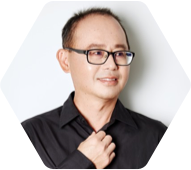
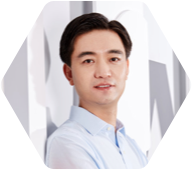
updated people info; optimized code

diff --git a/src/js/home.js b/src/js/home.js
@@ -17,8 +17,8 @@ $(function(){
     init();
 
     function init() {
-        registerEventListeners();
         renderInitialDOM();
+        registerEventListeners();
         // newsCarousel();
     }
 
@@ -36,7 +36,14 @@ $(function(){
             renderMedia('#specialMedia', 13);
             renderMedia('#partnerMedia', 25);*/
         }
-        $('#video2frame').append('<video controls width="90%" class="video2" id="video2"><source src="http://z.dtcj.com/cbndata/fiesta/2016/assets/video2.mp4" type="video/mp4">您的浏览器不支持mp4视频播放 </video>')
+        $('#video2frame').append('<video preload="automatic" controls width="90%" class="video2" id="video2"><source src="http://z.dtcj.com/cbndata/fiesta/2016/assets/video2.mp4" type="video/mp4">您的浏览器不支持mp4视频播放 </video>')
+        // alert($('#video2').attr('preload'));
+        /*$('#video2').load = function() {
+            $('#video2')[0].play();
+            setTimeout( function() {
+                $('#video2')[0].pause();
+            },1000)
+        }*/
 
         /*function renderMedia(dom, number) {
             var html = '';
@@ -56,21 +63,14 @@ $(function(){
             $('html,body').animate({scrollTop: $($(this).attr('href')).offset().top}, 500);
         });
 
-
-        var bgImg = $('#bgImage')[0];
+        // var bgImg = $('#bgImage')[0];
         var $floatObj = $('.float-obj');
         var scrollTriggered = false;
         var currentY = window.scrollY;
         var nextY = currentY;
-        var $footer = $('#footer');
 
-        var baseScrollY = $('#page2').offset().top;
         var $btnTop = $('#btnTop');
-        // var layer3dWrapper = $('#layer3dWrapper')[0];
-        var layer3dWrapper = $('#bgPlanetWrapper')[0];
 
-        var bodyHeight = $('body').height();
-        var maxScrollY = bodyHeight - HEIGHT;
         $(window).on('scroll', function () {
             if (scrollTriggered) return;
             scrollTriggered = true;
@@ -82,7 +82,7 @@ $(function(){
                 if (!ISMOBILE) {
                     // parallax scroll for background planet image
                     if (currentY > HEIGHT) {  // from 2nd page
-                        bgImg.style.backgroundPosition = 'left 0 top ' + (currentY-HEIGHT)/3 + 'px';
+                        // bgImg.style.backgroundPosition = 'left 0 top ' + (currentY-HEIGHT)/3 + 'px';
                         $floatObj[0].style.top = 400 - (currentY-HEIGHT)/3 + 'px';
                         $floatObj[1].style.top = 600 - (currentY-HEIGHT)/2 + 'px';
                     }
@@ -99,7 +99,7 @@ $(function(){
         });
     }
 
-    function newsCarousel() {
+    /*function newsCarousel() {
         var _counter = 0;
         var $newsContainer = $('.news-container');
         setInterval(function() {
@@ -108,7 +108,7 @@ $(function(){
             $('.news-item.hidden:eq(0)').removeClass('hidden');
             _counter++;
         }, 2.5 * 1000)
-    }
+    }*/
 
 });
 

diff --git a/src/index.html b/src/index.html
@@ -13,9 +13,7 @@
 <div style=" overflow:hidden; width:0px; height:0; margin:0 auto; position:absolute; top:-800px;"><img src="images/share-logo.jpg"></div>
 <div style="overflow:hidden; width:0px; height:0; margin:0 auto; position:absolute; top:-800px;">集结互联网消费领域领袖精英，探究数据商业新价值、行业新契机。星际之旅一触即发！</div>
 
-<a href="#page1" class="scroll btn-to-top PC-only hidden" id="btnTop">
-
-</a>
+<a href="#page1" class="scroll btn-to-top PC-only" id="btnTop"></a>
 
 <div class="pages" id="page1">
     <nav class="nav-bar">
@@ -193,8 +191,8 @@
                     </div>
                     <div class="hex-unit">
                         <div class="image-wrapper" style="background-image:url(./images/leaders/person14.png)">
-                            <div class="leader-name description">王文彬</div>
-                            <div class="leader-info description">菜鸟网络CTO</div>
+                            <div class="leader-name description">丁宏伟</div>
+                            <div class="leader-info description">菜鸟网络<br>首席数据科学家</div>
                         </div>
                     </div>
                     <div class="hex-unit">
@@ -225,7 +223,7 @@
                     <div class="hex-unit">
                         <div class="image-wrapper" style="background-image:url(./images/leaders/person23.png)">
                             <div class="leader-name description">张柏军</div>
-                            <div class="leader-info description">上海开放数据创新应用大赛<br>(SODA)<br>理事长</div>
+                            <div class="leader-info description">上海开放数据创新应用大赛<br>(SODA)<br>总策划人</div>
                         </div>
                     </div>
                 </div>
@@ -282,7 +280,7 @@
 
             </div>
             <div class="leaders-wrapper-mobile mobile-only" id="leadersWrapperMobile">
-                <img src="images/mobile/leaders.png">
+                <img src="images/mobile/leaders%3Fv1123.png">
             </div>
         </div>
     </div>

diff --git a/src/css/main.css b/src/css/main.css
@@ -1608,7 +1608,7 @@ img, .image {
   background-repeat: no-repeat;
   background-position: center center;
   position: absolute;
-  top: -50px;
+  top: 400px;
   left: -280px;
 }
 
@@ -1623,13 +1623,13 @@ img, .image {
   background-repeat: no-repeat;
   background-position: center center;
   position: absolute;
-  top: -550px;
+  top: 100px;
   right: -180px;
 }
 
 .btn-to-top {
   position: fixed !important;
-  display: inline-block;
+  display: none;
   right: 3rem;
   bottom: 14%;
   width: 50px;
@@ -1639,7 +1639,7 @@ img, .image {
           background-size: 100% 100%;
   background-repeat: no-repeat;
   background-position: center center;
-  z-index: 20;
+  z-index: 200;
   -webkit-transition-duration: 0.8s;
        -o-transition-duration: 0.8s;
           transition-duration: 0.8s;
@@ -1650,11 +1650,6 @@ img, .image {
 }
 
 .video2-frame {
-  background-image: url("../images/video-frame.png");
-  -webkit-background-size: 100% 100%;
-          background-size: 100% 100%;
-  background-repeat: no-repeat;
-  background-position: center center;
   position: relative;
   display: -webkit-box;
   display: -webkit-flex;
@@ -1680,6 +1675,26 @@ img, .image {
 
 @media (min-width: 720px) {
   .video2-frame {
+    background-image: url("../images/video-frame.png");
+    -webkit-background-size: 100% 100%;
+            background-size: 100% 100%;
+    background-repeat: no-repeat;
+    background-position: center center;
+  }
+}
+
+@media (max-width: 720px) {
+  .video2-frame {
+    background-image: url("../images/video-placeholder.png");
+    -webkit-background-size: 100% 100%;
+            background-size: 100% 100%;
+    background-repeat: no-repeat;
+    background-position: center center;
+  }
+}
+
+@media (min-width: 720px) {
+  .video2-frame {
     width: 100%;
     height: 516px;
   }
@@ -1688,7 +1703,7 @@ img, .image {
 @media (max-width: 720px) {
   .video2-frame {
     width: 100vw;
-    height: 64vw;
+    height: 62vw;
   }
 }
 
@@ -1707,6 +1722,6 @@ img, .image {
 
 @media (max-width: 720px) {
   .video2-frame .video2 {
-    top: -1vw;
+    top: -0.5vw;
   }
 }

diff --git a/src/scss/main.scss b/src/scss/main.scss
@@ -353,31 +353,35 @@ img, .image {
 .float-element-1 {
   @include div-img-responsive($width: 370px, $height:370px, $url: '../images/float-element-1.png');
   position: absolute;
-  top: -50px;
+  top: 400px;
   left: -280px;
 }
 .float-element-2 {
   @include div-img-responsive($width: 370px, $height:370px, $url: '../images/float-element-2.png');
   position: absolute;
-  top: -550px;
+  top: 100px;
   right: -180px;
 }
 
 
 .btn-to-top {
   position: fixed !important;
-  display: inline-block;
+  //display: inline-block;
+  display: none;
   right: 3rem;
   bottom: 14%;
   $btn-size: 50px;
   width: $btn-size;
   height: $btn-size;
   @include div-with-bgImage('../images/btn-goto-top.png');
-  z-index: 20;
+  z-index: 200;
   &:hover {
     cursor: pointer;
   }
   transition-duration: 0.8s;
+}
+.show-btn {
+  //display: inline-block;
 }
 
 #page3 {
@@ -387,7 +391,13 @@ img, .image {
 }
 
 .video2-frame {
-  @include div-with-bgImage('../images/video-frame.png');
+  @media #{$PC} {
+    @include div-with-bgImage('../images/video-frame.png');
+  }
+  @media #{$mobile} {
+    @include div-with-bgImage('../images/video-placeholder.png');
+
+  }
   position: relative;
   @include my-flex();
 
@@ -397,7 +407,7 @@ img, .image {
   }
   @media #{$mobile} {
     width: 100vw;
-    height: 64vw;
+    height: 62vw;
   }
 
   .video2 {
@@ -408,7 +418,7 @@ img, .image {
       top: -6px;
     }
     @media #{$mobile} {
-      top: -1vw;
+      top: -0.5vw;
     }
   }
 

diff --git a/src/scss/_allies.scss b/src/scss/_allies.scss
@@ -10,7 +10,6 @@
     }
   }
 
-
 }
 
 /*
